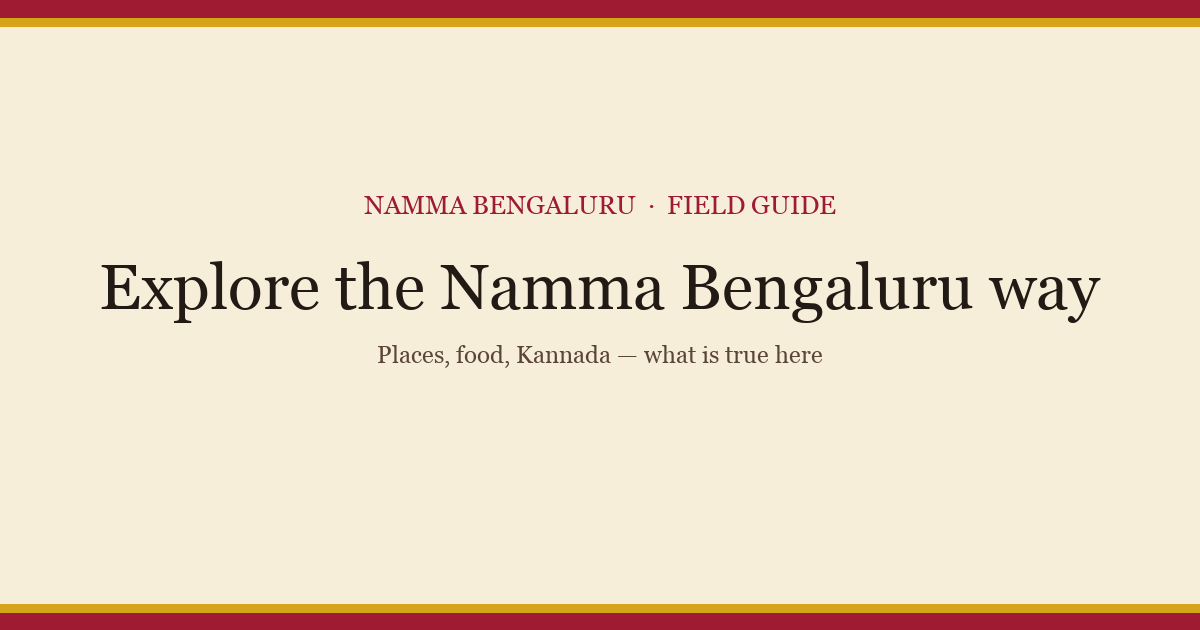
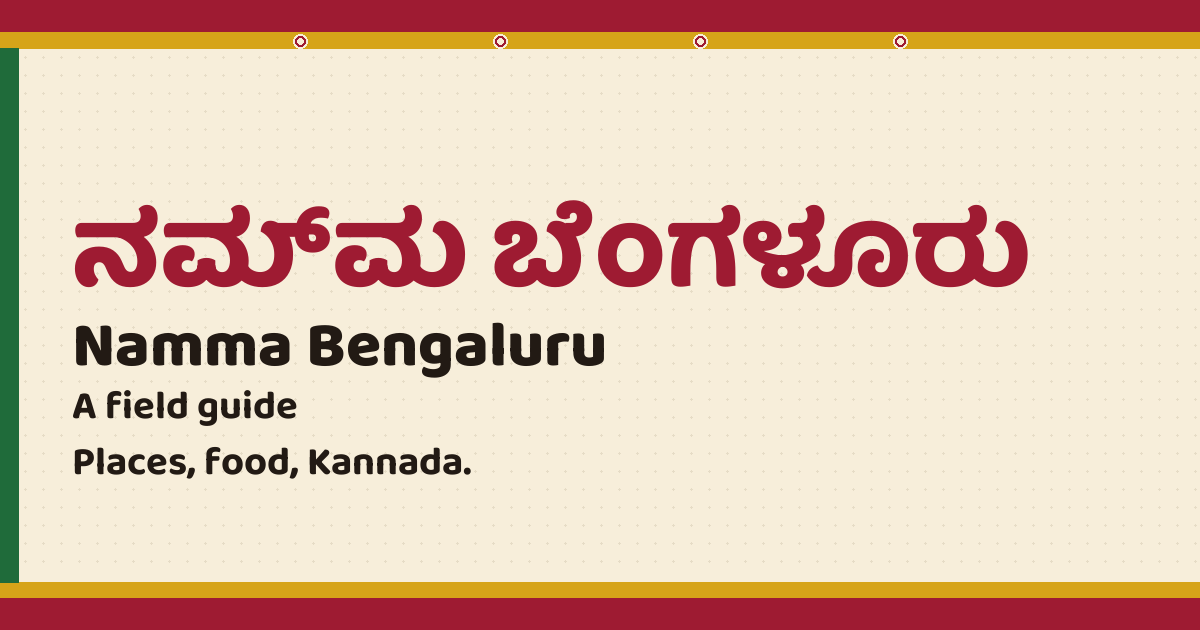
Refresh contributor gallery branding
Rename the contributor photo roll as the contributor gallery across the homepage, gallery docs, and README copy. This also updates Open Graph and Twitter metadata, adds a generated OG image script, and refreshes the gallery CTA text to better match the guide's naming and browsing flow.

Changed region(s): [[0.0617, 0.3016, 0.925, 0.754], [0.0, 0.0302, 1.0, 0.9952]]

diff --git a/docs/photos.html b/docs/photos.html
@@ -3,8 +3,8 @@
 <head>
 <meta charset="UTF-8">
 <meta name="viewport" content="width=device-width, initial-scale=1.0, viewport-fit=cover">
-<title>Photos sent in for this guide · Namma Bengaluru</title>
-<meta name="description" content="Contributor photos for the Namma Bengaluru field guide. Tap a picture to open it. Map opens the pin on the guide.">
+<title>Contributor gallery · Namma Bengaluru</title>
+<meta name="description" content="Shots sent in for the Namma Bengaluru field guide. Lalbagh, Cubbon, plates, and pins on the map.">
 <link rel="canonical" href="https://aravindbaskaran.github.io/this-blr-namma-bengaluru/photos.html">
 <link rel="icon" href="favicon.svg" type="image/svg+xml">
 <meta name="theme-color" content="#F7EEDA">
@@ -12,16 +12,40 @@
 <meta property="og:type" content="website">
 <meta property="og:locale" content="en_IN">
 <meta property="og:site_name" content="Namma Bengaluru Field Guide">
-<meta property="og:title" content="Photos sent in for this guide">
-<meta property="og:description" content="A roll of shots from people on this guide. Map pins open on the field guide.">
+<meta property="og:title" content="Contributor gallery · Namma Bengaluru">
+<meta property="og:description" content="Shots sent in for this guide. Tap a picture to open it. Map opens the pin on the field guide.">
 <meta property="og:url" content="https://aravindbaskaran.github.io/this-blr-namma-bengaluru/photos.html">
 <meta property="og:image" content="https://aravindbaskaran.github.io/this-blr-namma-bengaluru/og.png">
+<meta property="og:image:alt" content="Namma Bengaluru field guide">
+<meta property="og:image:width" content="1200">
+<meta property="og:image:height" content="630">
+<meta name="twitter:card" content="summary_large_image">
+<meta name="twitter:title" content="Contributor gallery · Namma Bengaluru">
+<meta name="twitter:description" content="Shots sent in for this guide. Tap a picture to open it. Map opens the pin on the field guide.">
+<meta name="twitter:image" content="https://aravindbaskaran.github.io/this-blr-namma-bengaluru/og.png">
+<meta name="twitter:image:alt" content="Namma Bengaluru field guide">
 <link rel="preconnect" href="https://fonts.googleapis.com">
 <link rel="preconnect" href="https://fonts.gstatic.com" crossorigin>
 <link href="https://fonts.googleapis.com/css2?family=Baloo+2:wght@500;600;700;800&family=Baloo+Tamma+2:wght@500;600;700;800&family=IBM+Plex+Sans:ital,wght@0,400;0,500;0,600;1,400&family=IBM+Plex+Mono:wght@400;500&display=swap" rel="stylesheet">
 <link rel="stylesheet" href="css/tokens.css?v=20260916m">
 <link rel="stylesheet" href="css/layout.css?v=20260916x">
 <link rel="stylesheet" href="css/stage.css?v=20260916m">
+<script type="application/ld+json">
+{
+  "@context": "https://schema.org",
+  "@type": "ImageGallery",
+  "name": "Contributor gallery",
+  "url": "https://aravindbaskaran.github.io/this-blr-namma-bengaluru/photos.html",
+  "description": "Shots sent in for the Namma Bengaluru field guide.",
+  "inLanguage": ["en-IN", "kn"],
+  "isAccessibleForFree": true,
+  "isPartOf": {
+    "@type": "WebSite",
+    "name": "Namma Bengaluru Field Guide",
+    "url": "https://aravindbaskaran.github.io/this-blr-namma-bengaluru/"
+  }
+}
+</script>
 </head>
 <body data-page="photos">
 <a class="skip-link" href="#main">Skip to content</a>
@@ -60,7 +84,7 @@
           <a href="./#karnataka">Karnataka</a>
         </div>
       </div>
-      <a href="photos.html" aria-current="page">Photos</a>
+      <a href="photos.html" aria-current="page">Contributor gallery</a>
       <a href="./#add-yours">Write in</a>
     </nav>
     <div class="header-actions">
@@ -74,9 +98,9 @@
   <div class="section-head">
     <div class="head-with-icon">
       <svg class="motif-icon" viewBox="0 0 24 24" aria-hidden="true"><path d="M4 7h16v12H4Z M8 7 V5 h8 v2 M9 11 h.01 M8 16 l3-3 2 2 3-4 3 5H8Z"/></svg>
-      <span class="kn kn-cycle" tabindex="0"><span class="kn-native">ನಮ್ಮ ಚಿತ್ರಗಳು</span><span class="kn-en">photos from this lot</span></span>
+      <span class="kn kn-cycle" tabindex="0"><span class="kn-native">ನಮ್ಮ ಚಿತ್ರಗಳು</span><span class="kn-en">contributor gallery</span></span>
     </div>
-    <h1>Photos sent in for this guide</h1>
+    <h1>Contributor gallery</h1>
     <p>A roll of shots from people on this guide. Tap a picture to open it. Map opens the pin on the field guide.</p>
   </div>
   <p id="galleryEmpty" hidden>No photos in the roll yet.</p>

diff --git a/docs/index.html b/docs/index.html
@@ -16,14 +16,14 @@
 <meta property="og:description" content="A community field guide to Bengaluru and Karnataka - places, food, Kannada, and what is true here beyond the default picture of India.">
 <meta property="og:url" content="https://aravindbaskaran.github.io/this-blr-namma-bengaluru/">
 <meta property="og:image" content="https://aravindbaskaran.github.io/this-blr-namma-bengaluru/og.png">
-<meta property="og:image:alt" content="Explore the Namma Bengaluru way">
+<meta property="og:image:alt" content="Namma Bengaluru field guide">
 <meta property="og:image:width" content="1200">
 <meta property="og:image:height" content="630">
 <meta name="twitter:card" content="summary_large_image">
 <meta name="twitter:title" content="Explore the Namma Bengaluru way">
 <meta name="twitter:description" content="A community field guide to Bengaluru and Karnataka - places, food, Kannada, and what is true here beyond the default picture of India.">
 <meta name="twitter:image" content="https://aravindbaskaran.github.io/this-blr-namma-bengaluru/og.png">
-<meta name="twitter:image:alt" content="Explore the Namma Bengaluru way">
+<meta name="twitter:image:alt" content="Namma Bengaluru field guide">
 <link rel="preconnect" href="https://fonts.googleapis.com">
 <link rel="preconnect" href="https://fonts.gstatic.com" crossorigin>
 <link href="https://fonts.googleapis.com/css2?family=Baloo+2:wght@500;600;700;800&family=Baloo+Tamma+2:wght@500;600;700;800&family=IBM+Plex+Sans:ital,wght@0,400;0,500;0,600;1,400&family=IBM+Plex+Mono:wght@400;500&display=swap" rel="stylesheet">
@@ -108,7 +108,7 @@
           <a href="#karnataka">Karnataka</a>
         </div>
       </div>
-      <a href="photos.html">Photos</a>
+      <a href="photos.html">Contributor gallery</a>
       <a href="#add-yours">Write in</a>
     </nav>
     <div class="header-actions">
@@ -829,13 +829,13 @@
   <div class="section-head">
     <div class="head-with-icon">
       <svg class="motif-icon" viewBox="0 0 24 24" aria-hidden="true"><path d="M4 7h16v12H4Z M8 7 V5 h8 v2 M9 11 h.01 M8 16 l3-3 2 2 3-4 3 5H8Z"/></svg>
-      <span class="kn kn-cycle" tabindex="0"><span class="kn-native">ನಮ್ಮ ಚಿತ್ರಗಳು</span><span class="kn-en">photos from this lot</span></span>
+      <span class="kn kn-cycle" tabindex="0"><span class="kn-native">ನಮ್ಮ ಚಿತ್ರಗಳು</span><span class="kn-en">contributor gallery</span></span>
     </div>
-    <h2>Photos sent in for this guide</h2>
+    <h2>Contributor gallery</h2>
     <p>A few shots from people on this guide. Tap a picture to open it. Map if we have a pin. The rest of the roll is on its own page.</p>
   </div>
   <div class="gallery-grid gallery-grid-preview" id="galleryGrid"></div>
-  <p class="gallery-more" id="galleryMore" hidden><a href="photos.html">See all photos</a></p>
+  <p class="gallery-more" id="galleryMore" hidden><a href="photos.html">See the full gallery</a></p>
 </section>
 
 <section id="add-yours">
@@ -935,7 +935,7 @@
 
 <script src="https://unpkg.com/leaflet@1.9.4/dist/leaflet.js" integrity="sha256-20nQCchB9co0qIjJZRGuk2/Z9VM+kNiyxNV1lvTlZBo=" crossorigin=""></script>
 <script src="js/gallery.js?v=20260916c"></script>
-<script src="js/guide.js?v=20260916y"></script>
+<script src="js/guide.js?v=20260916z"></script>
 <script type="module" src="kannada-voice.js"></script>
 <script src="js/stage-bands.js?v=20260916k"></script>
 <script src="js/stage-bands-straight.js?v=20260916l"></script>

diff --git a/docs/js/guide.js b/docs/js/guide.js
@@ -906,7 +906,7 @@ function renderGallery(){
   if(more){
     more.hidden = false;
     const a = more.querySelector('a');
-    if(a) a.textContent = items.length > limit ? `See all ${items.length} photos` : 'See all photos';
+    if(a) a.textContent = items.length > limit ? `See all ${items.length} in the gallery` : 'See the full gallery';
   }
 }
 

diff --git a/scripts/make-og.py b/scripts/make-og.py
@@ -1,0 +1,92 @@
+#!/usr/bin/env python3
+"""Write docs/og.png: 1200x630 share card. Big type, high contrast, no thin serif."""
+from pathlib import Path
+import urllib.request
+
+from PIL import Image, ImageDraw, ImageFont
+
+ROOT = Path(__file__).resolve().parents[1]
+OUT = ROOT / 'docs' / 'og.png'
+FONT_DIR = Path('/tmp/ogfonts')
+
+W, H = 1200, 630
+CREAM = (247, 238, 218)
+CREAM2 = (238, 225, 190)
+MAROON = (158, 27, 50)
+GOLD = (214, 164, 25)
+INK = (34, 26, 20)
+LEAF = (31, 107, 58)
+DOT = (230, 220, 198)
+
+FONTS = {
+    'tamma': (
+        FONT_DIR / 'BalooTamma2-Bold.ttf',
+        'https://github.com/google/fonts/raw/main/ofl/balootamma2/BalooTamma2%5Bwght%5D.ttf',
+    ),
+    'baloo': (
+        FONT_DIR / 'Baloo2-Bold.ttf',
+        'https://github.com/google/fonts/raw/main/ofl/baloo2/Baloo2%5Bwght%5D.ttf',
+    ),
+}
+
+
+def fetch_fonts():
+    FONT_DIR.mkdir(parents=True, exist_ok=True)
+    for path, url in FONTS.values():
+        if path.exists() and path.stat().st_size > 10000:
+            continue
+        req = urllib.request.Request(url, headers={'User-Agent': 'NammaBengaluruGuide/1.0'})
+        with urllib.request.urlopen(req, timeout=30) as r:
+            path.write_bytes(r.read())
+
+
+def font(key, size, weight=800):
+    f = ImageFont.truetype(str(FONTS[key][0]), size)
+    try:
+        f.set_variation_by_axes([weight])
+    except OSError:
+        pass
+    return f
+
+
+def main():
+    fetch_fonts()
+    img = Image.new('RGB', (W, H), CREAM)
+    d = ImageDraw.Draw(img)
+
+    for x in range(24, W, 18):
+        for y in range(56, H - 56, 18):
+            d.ellipse((x, y, x + 2, y + 2), fill=DOT)
+
+    d.rectangle((0, 0, W, 32), fill=MAROON)
+    d.rectangle((0, 32, W, 48), fill=GOLD)
+    d.rectangle((0, H - 48, W, H - 32), fill=GOLD)
+    d.rectangle((0, H - 32, W, H), fill=MAROON)
+    d.rectangle((0, 48, 18, H - 48), fill=LEAF)
+
+    kn = font('tamma', 108, 800)
+    en = font('baloo', 64, 800)
+    sub = font('baloo', 40, 700)
+
+    x = 72
+    y = 168
+    d.text((x, y), 'ನಮ್ಮ ಬೆಂಗಳೂರು', font=kn, fill=MAROON)
+    y += 128
+    d.text((x, y), 'Namma Bengaluru', font=en, fill=INK)
+    y += 78
+    d.text((x, y), 'A field guide', font=sub, fill=INK)
+    y += 56
+    d.text((x, y), 'Places, food, Kannada.', font=sub, fill=INK)
+
+    # jasmine on the gold strip, like the header mala
+    for cx in (300, 500, 700, 900):
+        d.ellipse((cx - 7, 34, cx + 7, 48), fill=CREAM)
+        d.ellipse((cx - 5, 36, cx + 5, 46), outline=MAROON, width=2)
+
+    OUT.parent.mkdir(parents=True, exist_ok=True)
+    img.save(OUT, 'PNG', optimize=True)
+    print('wrote', OUT, img.size)
+
+
+if __name__ == '__main__':
+    main()

diff --git a/README.md b/README.md
@@ -9,14 +9,14 @@ GitHub Pages serves `docs/` as the site. There is no build step and no CMS. List
 ## How the site is built
 
 - `docs/index.html` - page chrome, sections, Write in forms
-- `docs/photos.html` - full contributor photo roll (the guide only shows a preview)
+- `docs/photos.html` - contributor gallery (the guide only shows a preview)
 - `docs/css/` - `tokens.css` (palette and type), `layout.css` (chrome and cards), `stage.css` (saree bands and loader)
 - `docs/js/guide.js` - loads the JSON, filters Tourist / Local / Both, map, to-do, forms
 - `docs/js/stage-bands.js` and `stage-bands-straight.js` - the cloth bands between sections
 - `docs/data/locations.json` - Bengaluru spots (`tourist`, `stay`, `personalPick`, `skipCrowd`, `try`)
 - `docs/data/karnataka-places.json` - day trips
 - `docs/data/dishes.json`, `phrases.json`, `festivals.json`, `did-you-know.json`, `not-that.json`, `gallery.json`
-- `docs/gallery/` - contributor photos. Add the file here, then a row in `gallery.json` (caption, optional `lat`/`lng`). They show on `photos.html`, with a short preview on the guide.
+- `docs/gallery/` - contributor photos. Add the file here, then a row in `gallery.json` (caption, optional `lat`/`lng`). They show on the contributor gallery (`photos.html`), with a short preview on the guide.
 - `docs/audio/kn/` - one small clip per Kannada phrase, plus `manifest.json`
 - `docs/kannada-voice.js` - looks up a phrase's clip and plays it
 

diff --git a/CONTRIBUTING.md b/CONTRIBUTING.md
@@ -20,7 +20,7 @@ Fork, edit, and open a PR against `main`.
 - Bengaluru spots: `docs/data/locations.json`. Set `tourist: true` for the visitor shortlist, `stay: true` for the local list. **Both** (the default on the page) shows either flag. Custom spots from the to-do list always show.
 - Day trips: `docs/data/karnataka-places.json`. Same `tourist` / `stay` flags.
 - Dishes, Kannada phrases, habbas, asides, and This not that: `dishes.json`, `phrases.json`, `festivals.json`, `did-you-know.json`, `not-that.json`.
-- Your own photos: drop the file in `docs/gallery/`, then add a row to `docs/data/gallery.json` (caption, optional `lat`/`lng`). They show on `photos.html`, with a short preview on the guide. Details are in `docs/gallery/README.md`.
+- Your own photos: drop the file in `docs/gallery/`, then add a row to `docs/data/gallery.json` (caption, optional `lat`/`lng`). They show in the contributor gallery (`photos.html`), with a short preview on the guide. Details are in `docs/gallery/README.md`.
 - Do not dump new lists into `docs/index.html`.
 - Markup is `docs/index.html`. Styles are `docs/css/`. Guide behaviour is `docs/js/guide.js`. Saree bands are `docs/js/stage-bands.js` and `stage-bands-straight.js`.
 - Keep the voice: Bengaluru-first, specific, no generic India filler. Follow `AGENTS.md` and run `python3 scripts/check-copy.py` before you open a PR.

diff --git a/docs/gallery/README.md b/docs/gallery/README.md
@@ -1,6 +1,6 @@
 # Contributor photos
 
-Drop image files in this folder (`docs/gallery/`). Then add a row to `docs/data/gallery.json`. They show on **photos.html**, with a short preview on the guide. They do not replace the photos on place cards.
+Drop image files in this folder (`docs/gallery/`). Then add a row to `docs/data/gallery.json`. They show in the **contributor gallery** (`photos.html`), with a short preview on the guide. They do not replace the photos on place cards.
 
 GitHub Pages cannot list the folder by itself. The JSON is the list the page reads.
 
